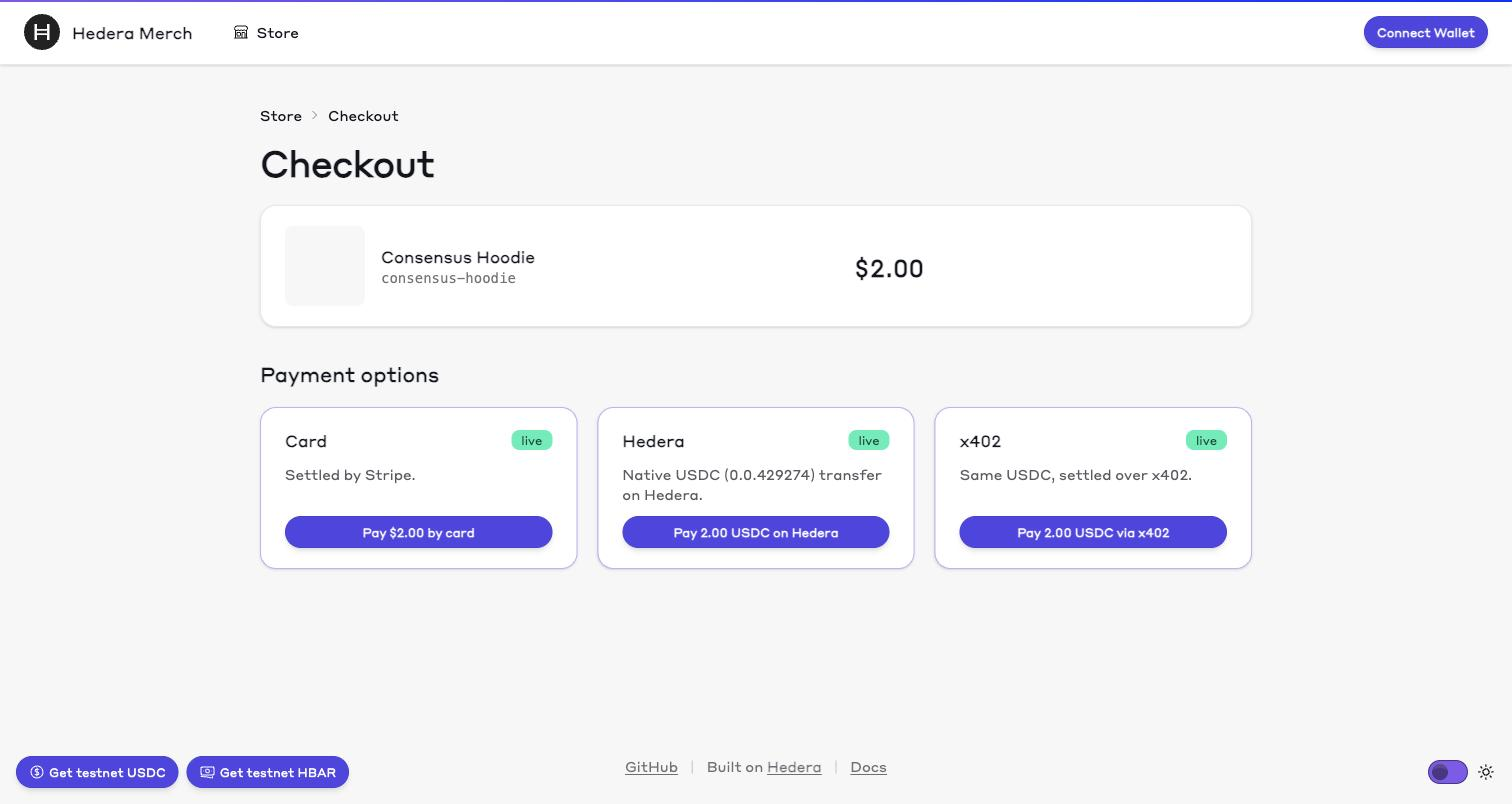
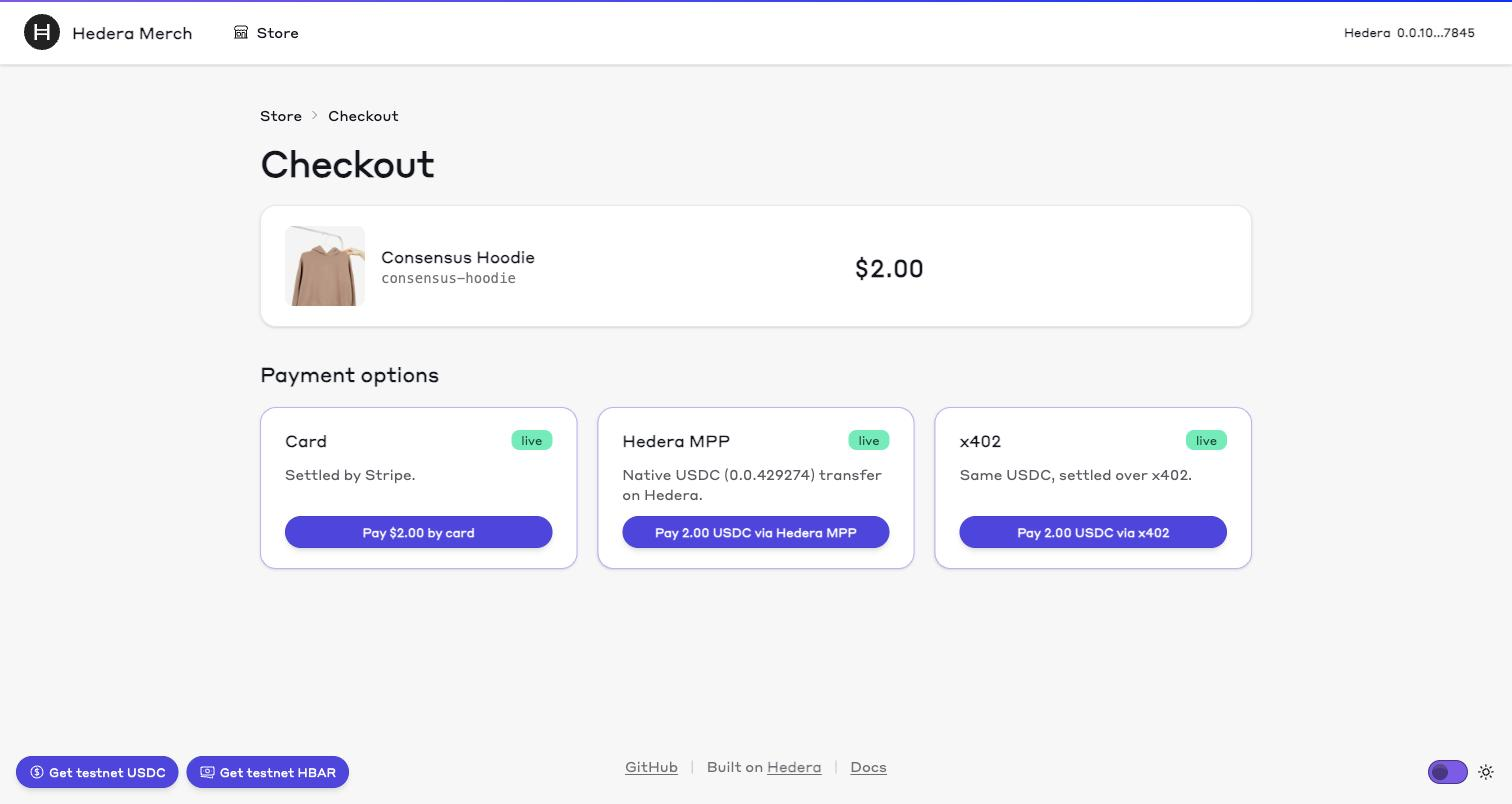
ui: label the native rail "Hedera MPP"
"Hedera" named the chain while the card beside it named an instrument and x402
named a protocol, so the three labels were not comparable. "Hedera MPP" says
both halves: the protocol it speaks and the chain it settles on, which is the
pair that distinguishes it from the x402 card next to it.

Button follows: "Pay 2.00 USDC via Hedera MPP", against "via x402".

Worth recording the imprecision this leaves, since it is deliberate: the card
offer is *also* MPP — both ride the same /api/pay 402, which is the whole point
of the template — so naming only this one "MPP" implies the card is not. The
label is doing a different job though. What a buyer picks between here is the
rail, and the protocol name is the clearest way to tell the two on-chain ones
apart. The README and docs/mpp-vs-x402.md carry the accurate version.

Screenshot re-taken.

diff --git a/packages/nextjs/app/checkout/page.tsx b/packages/nextjs/app/checkout/page.tsx
@@ -33,7 +33,10 @@ export default async function CheckoutPage({ searchParams }: CheckoutPageProps) 
       action: <CardPayButton productId={product.id} priceUsd={product.priceUsd} enabled={cardEnabled} />,
     },
     {
-      label: "Hedera",
+      // Labelled by protocol, to sit against x402. The card offer rides the same MPP 402, so
+      // the distinction a buyer is choosing between here is really the rail, not the protocol
+      // — the description carries that.
+      label: "Hedera MPP",
       description: `Native USDC (${USDC_TOKEN_ID}) transfer on Hedera.`,
       envVars: ["HEDERA_OPERATOR_ID", "HEDERA_OPERATOR_KEY"],
       enabled: hederaEnabled,

diff --git a/packages/nextjs/components/HederaPayButton.tsx b/packages/nextjs/components/HederaPayButton.tsx
@@ -95,7 +95,7 @@ export const HederaPayButton = ({ productId, priceUsd, enabled }: HederaPayButto
         data-testid="pay-with-hedera"
       >
         {working ? <span className="loading loading-spinner loading-xs" /> : null}
-        Pay {priceUsd} USDC on Hedera
+        Pay {priceUsd} USDC via Hedera MPP
       </button>
 
       {enabled && !hasSigner && (
